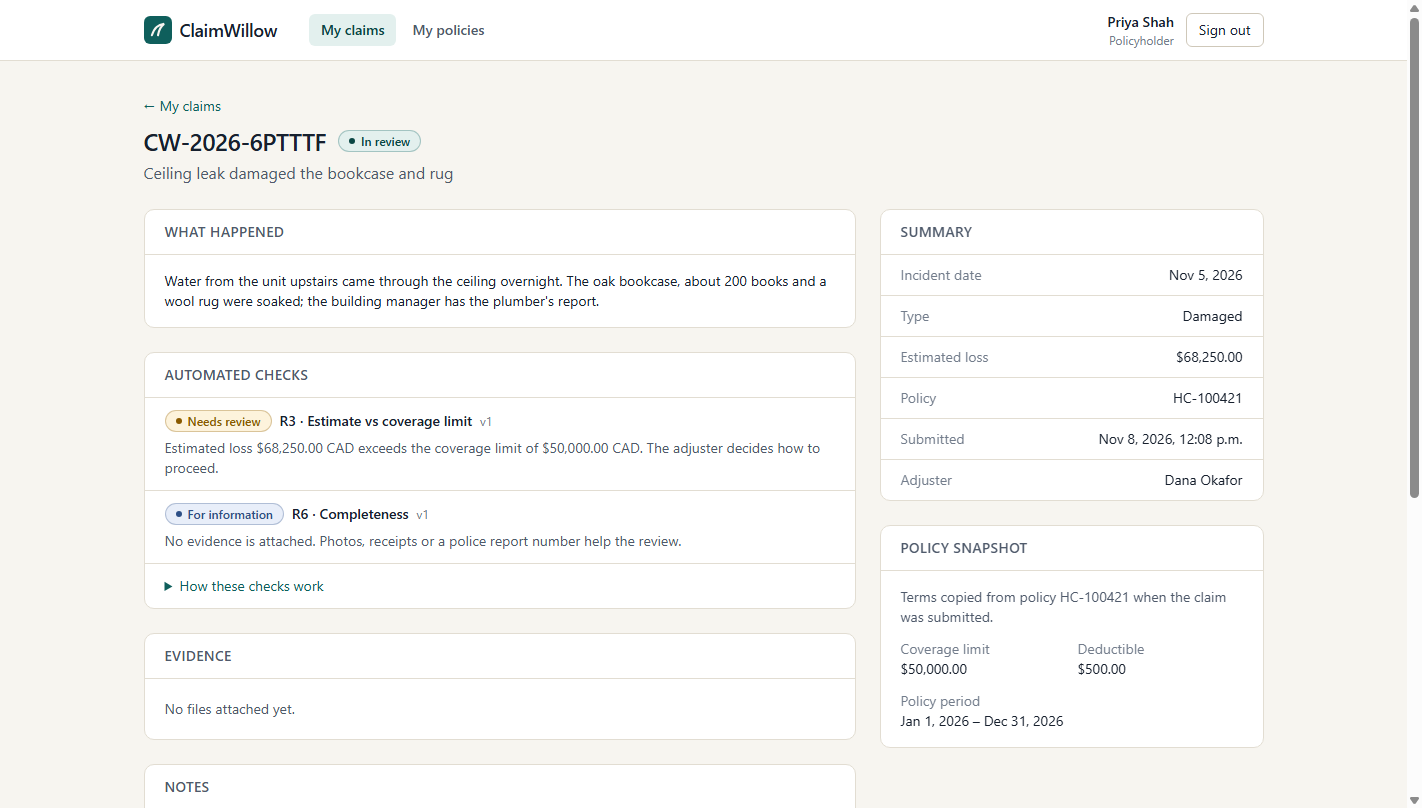
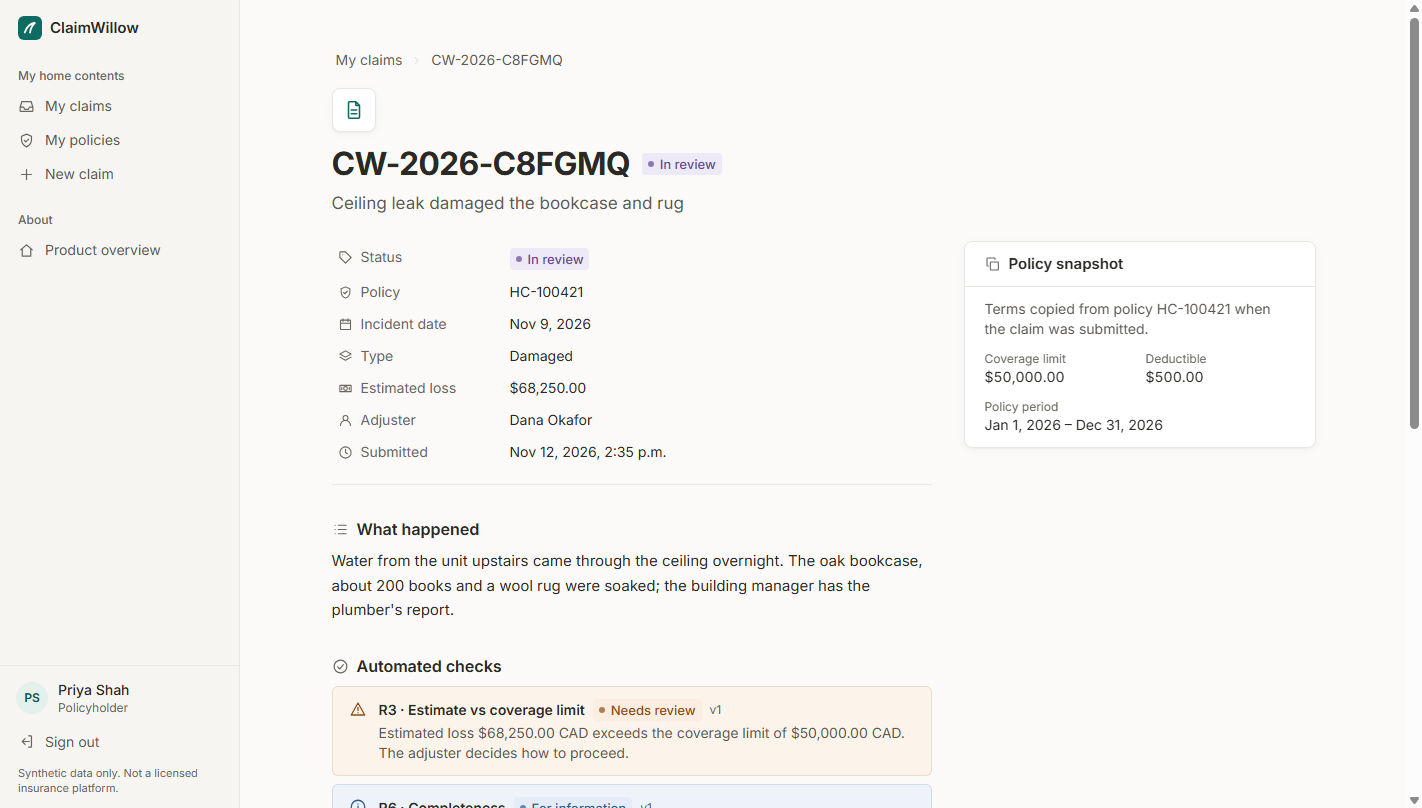
docs: landing page, one-click demos, new screenshots and corrected roles
Re-captured every README screenshot with ScreenshotTour and added the landing
page, phone landing and phone navigation shots. The roles table now matches
the server rules (review actions need the assigned adjuster; an admin can take
over open claims and close decided ones). The limitations list no longer says
there is no live URL. TESTING and DEPLOYMENT describe the new tests, the test
browser settings and where the demo password lives in the frontend.

diff --git a/README.md b/README.md
@@ -14,7 +14,9 @@ browser tests.
 **https://claimwillow.onrender.com** runs on Render's free plan, with the database on a free Neon PostgreSQL project
 ([render.yaml](render.yaml), [deployment guide](docs/DEPLOYMENT.md#3-free-hosting-render--neon-live-deployment)).
 
-Sign in with a username and the shared password **`demo1234`**. The sign-in page lists the same accounts.
+The landing page has three one-click demos: **Try as a policyholder (Priya)**, **Try as an adjuster (Dana)** and
+**Try as an admin**. Each signs in through the normal login API and opens that role's home screen. To use the form
+instead, sign in with a username and the shared password **`demo1234`**; the sign-in page lists the same accounts.
 
 | Username | Password | Role | What to try |
 | --- | --- | --- | --- |
@@ -33,7 +35,7 @@ Sign in with a username and the shared password **`demo1234`**. The sign-in page
 
 ### Try it in 3 minutes
 
-1. Sign in as **`priya`** / `demo1234`. Choose **New claim**, pick policy HC-100421, fill in the incident, a title, a description
+1. Open the live demo and choose **Try as a policyholder (Priya)** (or sign in as **`priya`** / `demo1234`). Choose **New claim**, pick policy HC-100421, fill in the incident, a title, a description
    and an estimate, then **Review claim** → **Submit claim**. Note the reference and the automated checks.
 2. Sign out and sign in as **`dana`**. Find the claim in the **Work queue**, open it, then **Assign to me** →
    **Start review** → **Request more information** with a short message.
@@ -41,7 +43,7 @@ Sign in with a username and the shared password **`demo1234`**. The sign-in page
 4. Sign in as **`dana`**. Read the response, **Record a decision** → Approve with a note, then **Close claim**. The
    **History** panel lists every step with its actor and time.
 
-![Adjuster review screen](docs/screenshots/06-staff-review.png)
+![Landing page with one-click demos](docs/screenshots/00-landing.png)
 
 ## The problem
 
@@ -53,12 +55,18 @@ flow in one small, secure web application with tests that prove the rules.
 
 | Role | Can do |
 | --- | --- |
-| **Policyholder** | Save and submit claims against their own policies, attach evidence, answer information requests, follow status and history |
-| **Claims adjuster** | Work the queue, assign claims to themselves, review findings and evidence, request information, approve or reject with a mandatory note, close |
-| **Administrator** | Everything an adjuster can do, reassign claims, enable/disable demo accounts |
+| **Policyholder** | Save and submit claims against their own policies, attach evidence, answer information requests, follow status and history. Anyone else's claim shows "not found" |
+| **Claims adjuster** | Work the queue and reports, take an unassigned claim, add internal notes and evidence to open claims. Start review, request information, approve or reject (with a mandatory note) and close only on claims **assigned to them** |
+| **Administrator** | Queue, reports and notes like an adjuster, plus: take over any open claim, even one assigned to someone else (the API also lets an admin assign it to a named adjuster); close any decided claim; enable or disable accounts. Start review, request information and decide still require being the assigned adjuster |
 
 ## Features
 
+- **Landing page with one-click demos** — how a claim flows, the six rules, the audit/security/testing approach and
+  the stack, with quiet scroll fade-ins and an animated example claim (pausable, and static when the system asks for
+  reduced motion). Demo buttons sign in as Priya, Dana or the admin through the normal login API, CSRF included.
+- **Calm workspace UI** — a role-based sidebar (a drawer on phones), page-style claim screens with breadcrumbs and a
+  property list, rule findings as callouts, a quiet activity feed and database-style tables with compact filters.
+  Self-hosted fonts, WCAG AA colour contrast, visible focus, keyboard-usable controls.
 - **Claim intake** — three-section form (policy · incident and amount · evidence), manual draft save, a review step
   before submission, field-level errors from both the client and the server.
 - **Deterministic rules R1–R6** (no AI): required inputs (blocking), policy active on the incident date, estimate over
@@ -81,14 +89,17 @@ flow in one small, secure web application with tests that prove the rules.
 
 ## Screenshots
 
-Captured from a freshly seeded instance by `e2e/src/test/java/com/claimwillow/e2e/ScreenshotTour.java`.
+Captured from a freshly seeded instance by `e2e/src/test/java/com/claimwillow/e2e/ScreenshotTour.java`, which also
+clicks the adjuster demo button end to end.
 
 | | |
 | --- | --- |
-| ![Sign in](docs/screenshots/01-sign-in.png) Sign in | ![My claims](docs/screenshots/02-my-claims.png) My claims |
-| ![New claim](docs/screenshots/03-new-claim-form.png) New claim form | ![Claim detail](docs/screenshots/04-claim-detail-policyholder.png) Claim detail (policyholder) |
+| ![Landing page](docs/screenshots/00-landing.png) Landing page | ![Sign in](docs/screenshots/01-sign-in.png) Sign in |
+| ![My claims](docs/screenshots/02-my-claims.png) My claims | ![New claim](docs/screenshots/03-new-claim-form.png) New claim form |
+| ![Claim detail](docs/screenshots/04-claim-detail-policyholder.png) Claim detail (policyholder) | ![Adjuster review](docs/screenshots/06-staff-review.png) Claim detail with review actions (adjuster) |
 | ![Work queue](docs/screenshots/05-staff-work-queue.png) Work queue | ![Reports](docs/screenshots/07-reports.png) Reports |
-| ![Mobile queue](docs/screenshots/08-mobile-work-queue.png) Work queue, narrow screen | ![Mobile review](docs/screenshots/09-mobile-staff-review.png) Review actions, narrow screen |
+| ![Mobile landing](docs/screenshots/10-mobile-landing.png) Landing page, phone | ![Mobile navigation](docs/screenshots/11-mobile-navigation.png) Navigation drawer, phone |
+| ![Mobile queue](docs/screenshots/08-mobile-work-queue.png) Work queue, phone | ![Mobile review](docs/screenshots/09-mobile-staff-review.png) Review actions, phone |
 
 ## Architecture
 
@@ -111,7 +122,7 @@ Details, data model, trust boundaries and design reasons: [docs/ARCHITECTURE.md]
 | Backend | Java 21, Spring Boot 4.1.2 (Spring Security 7, Spring Data JPA, Hibernate 7.4, Bean Validation) | Current supported Spring Boot line from Spring Initializr; mature security and transactions |
 | Database | PostgreSQL 16, Flyway 12.4 | Constraints, triggers and NUMERIC money; versioned migrations |
 | API docs | springdoc-openapi 3.2 | OpenAPI at `/v3/api-docs`, Swagger UI in development |
-| Frontend | React 19.3, TypeScript 6.0, Vite 8.3, React Router 7.18, TanStack Query 5, Tailwind CSS 4.3 | Typed SPA, server state via queries, small design-token system |
+| Frontend | React 19.3, TypeScript 6.0, Vite 8.3, React Router 7.18, TanStack Query 5, Tailwind CSS 4.3, Inter and Source Serif 4 via Fontsource | Typed SPA, server state via queries, small design-token system; fonts are bundled, so the strict CSP needs no font CDN |
 | Backend tests | JUnit Jupiter 6, Mockito, AssertJ, Spring Boot Test, Testcontainers 2.0 | Real PostgreSQL in integration tests |
 | Frontend tests | Vitest 5.1, React Testing Library 16, user-event | Component and form behaviour |
 | Browser tests | Cucumber 7.34 (Gherkin), Selenium 4.52 with headless Chrome | Readable scenarios against the real app |
@@ -175,7 +186,7 @@ only) and [docs/DEPLOYMENT.md](docs/DEPLOYMENT.md). Main ones: `SPRING_PROFILES_
 | --- | --- | --- |
 | Backend unit | `cd backend && ./mvnw test` | 75 passed |
 | Backend integration (Testcontainers PostgreSQL) | `cd backend && ./mvnw verify` | 60 passed |
-| Frontend (lint, tests, build) | `cd frontend && npm ci && npm run lint && npm test -- --run && npm run build` | lint clean, 30 passed, build ok |
+| Frontend (lint, tests, build) | `cd frontend && npm ci && npm run lint && npm test -- --run && npm run build` | lint clean, 43 passed, build ok |
 | Browser acceptance (Cucumber + Selenium) | build jar and frontend, then `cd e2e && ./mvnw test` | 10 scenarios, 96 steps passed |
 
 Integration and browser tests start their own disposable PostgreSQL containers (Docker required) and never touch the
@@ -186,7 +197,8 @@ changes ([.github/workflows/ci.yml](.github/workflows/ci.yml)).
 
 ## Demo walkthrough (about 4 minutes)
 
-1. **Sign in as Priya** (username `priya`, password `demo1234`). *My claims* shows counts by status and the list.
+1. **Open the landing page** and choose **Try as a policyholder (Priya)** (or sign in with `priya` / `demo1234`).
+   *My claims* shows counts by status and the list.
 2. **New claim** → choose policy HC-100421, set a date, "Damaged", a title, a short description and an estimate of
    `65000`. **Save draft**, refresh the page (the draft is still there), **Review claim** → **Submit claim**.
 3. The claim page shows the reference, *Submitted*, and **Automated checks**: R3 (over the 50,000 limit) and R6
@@ -224,15 +236,16 @@ docker-compose.yml   Local PostgreSQL and the integrated app
 
 ## Honest limitations
 
-- No live URL yet; the free-hosting setup is ready and the URL will be added once deployed. On the free host, the
-  first request after 15 idle minutes is slow while the service wakes up.
+- The live demo runs on a free plan (https://claimwillow.onrender.com): the first request after 15 idle minutes is
+  slow, about a minute, while the service wakes up. The demo accounts and their data are shared and may be reset.
 - Synthetic data only; uploads are not scanned for malware.
 - Sessions and login throttling are in memory: single instance only for now.
 - Evidence is stored on a private volume (`local`) or inside PostgreSQL (`database`, used for free hosting). Azure
   Blob storage is a fail-fast placeholder.
 - No payments, real adjudication, notifications, MFA or password reset — intentionally out of scope.
-- No accessibility audit beyond semantic HTML, labels, focus styles, keyboard-usable controls and text-plus-colour
-  status labels.
+- No formal accessibility audit. The UI uses landmarks, labels, visible focus, keyboard-usable controls, text-plus-colour
+  status tags, AA contrast and honours reduced motion, but has not been tested with every screen reader.
+- Light theme only.
 
 ## License
 

diff --git a/docs/TESTING.md b/docs/TESTING.md
@@ -66,6 +66,11 @@ test creates its own users and policies with random identifiers (`TestFixtures`)
 Vitest + React Testing Library with `fetch` stubbed per test (`tests/testUtils.tsx`):
 
 - `LoginPage` — required fields, server error message, CSRF header sent, role-based redirect.
+- `LandingPage` — sections and landmarks, "Open app" for a signed-in user (no redirect), each one-click demo signs in
+  through `POST /auth/login` with a freshly fetched CSRF token and opens the right screen, failure message, cold-start
+  notice for a slow sign-in, double clicks ignored; the example-claim animation can be paused and is static under
+  reduced motion.
+- `AppShell` — role navigation in the sidebar, the phone navigation drawer (`aria-expanded`, Escape, focus return).
 - `ProtectedRoute` — anonymous redirect, wrong-role redirect, role navigation.
 - `ClaimForm` — R1 mirror validation, a full save → review → submit flow (request bodies asserted), server field
   errors mapped back onto inputs.
@@ -102,6 +107,8 @@ How the suite runs (`e2e/src/test/java/com/claimwillow/e2e/support/AppUnderTest.
    attributes; waits are explicit `WebDriverWait` conditions — no fixed sleeps in steps.
 5. A failed scenario saves a PNG per open browser to `e2e/target/screenshots/` and attaches it to
    `e2e/target/cucumber-report.html`. The app log is in `e2e/target/e2e-backend.log`.
+6. The test browser has Chrome's password manager and leaked-password check turned off. After a form sign-in with
+   the public demo password their prompt can sit invisibly over a headless page and swallow clicks.
 
 Prerequisites: build the jar and the frontend first.
 
@@ -155,7 +162,7 @@ Recorded from actual runs on the development machine (Windows 11, Java 21, Node 
 | --- | --- |
 | Backend unit | 75 passed, 0 failed |
 | Backend integration | 60 passed, 0 failed (including database-mode attachments, the HTTPS proxy check and the username migration on existing data) |
-| Frontend | 30 passed, 0 failed |
+| Frontend | 43 passed, 0 failed |
 | Browser acceptance | 10 scenarios / 96 steps passed |
 
 The same jobs (backend, frontend, e2e, docker, gated by the changed files) run on GitHub Actions for pull requests

diff --git a/docs/DEPLOYMENT.md b/docs/DEPLOYMENT.md
@@ -177,7 +177,7 @@ Rules for the conversion:
 
 Open `https://<service-name>.onrender.com` (the URL is at the top of the service page) and check:
 
-1. The sign-in page loads over HTTPS and shows the synthetic-data notice.
+1. The landing page loads over HTTPS and shows the synthetic-data notice; **Try as a policyholder (Priya)** signs in.
 2. `https://<service-name>.onrender.com/actuator/health` returns `{"status":"UP"}`. This also proves the database
    connection.
 3. Sign in as `priya` with the demo password. Create a claim, attach a small PDF or PNG, and submit it.
@@ -258,8 +258,9 @@ Policies and claims are only created when missing; existing claims are never cha
    characters) and save. Render redeploys.
 2. In **Logs**, expect `Synthetic demo data is present (idempotent seed complete).` The five accounts now accept the
    new password.
-3. Update the password in the README's "Live demo" section and on the sign-in page (`frontend/src/pages/LoginPage.tsx`)
-   through a pull request.
+3. Update the password in the README's "Live demo" section and in the frontend through a pull request:
+   `DEMO_PASSWORD` in `frontend/src/features/auth/demo.ts` is used by the sign-in page and the landing page's
+   one-click demo buttons, which stop working until it matches.
 4. Sessions live in memory, so anyone already signed in stays signed in until the restart that the deploy performs.
 
 **Reset the demo data** (wipes every claim, note, evidence file and account, then re-seeds):
@@ -377,7 +378,7 @@ downgrade authentication or storage privacy to make a host work.
 
 ## 6. Post-deployment checks
 
-1. The HTTPS URL renders the sign-in page and the synthetic-data notice.
+1. The HTTPS URL renders the landing page and the synthetic-data notice.
 2. Sign in as a demo policyholder; create, save and submit a claim (CSRF works behind the proxy).
 3. Sign in as a demo adjuster; assign, review, request info, decide and close.
 4. Upload and download evidence; confirm another policyholder gets 404 for the same URL.
